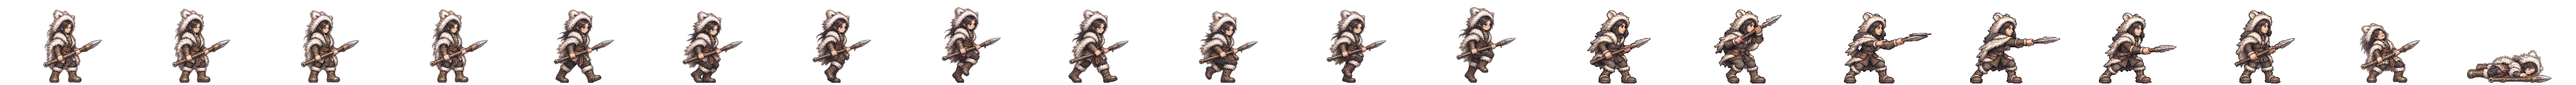
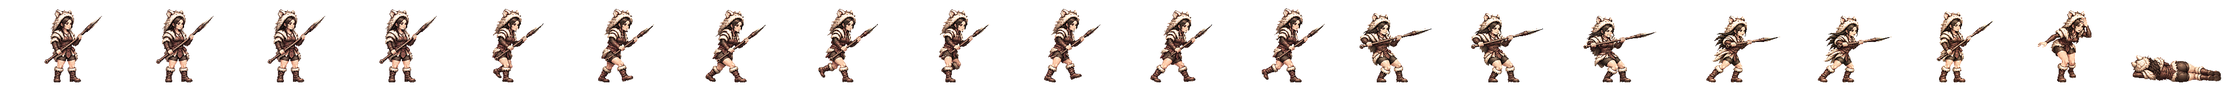
부여 사냥꾼 새 전투 띠를 게임에 넣음(서기·걷기·창 찌르기 여덟 칸·쓰러짐·털 두건 고쳐 쓰기)
strip-build: 서기를 걷기 윗몸에 맞추는 탐색을 ±20 → ±40px. 사냥꾼은 서기(창 때문에 뿌리 −11)와 걷기(+11)가 33px 떨어져 탐색 끝에 막혀 13px 가 남았다(검사 불합격의 원인).
띠 검사 합격(경고: 서기 발 +21px · 공격 끝 칸 윗몸 16px 뒤) · 시험 2162 통과.

Claude-Session: https://claude.ai/code/session_01TRiuN7s6aDfSnaHxrkctmU

Changed region(s): [[0.4688, 0.0938, 1.0, 1.0], [0.0, 0.0938, 0.4375, 0.9688]]

diff --git a/src/realm/data/spritePx.ts b/src/realm/data/spritePx.ts
@@ -1,3 +1,3 @@
 /** public/realm/anim-px/manifest.json 의 사본 — tools/sprite-normalize.mjs 가 만든다 (손으로 고치지 말 것). 칸 [가로, 세로] · feet = 발 줄(칸 위에서 y) · bodyPx = 서 있는 몸 키 */
 import { expandManifest } from './sprite-manifest.ts'
-export const SPRITE_PX: Readonly<Record<string, { readonly cell: readonly [number, number]; readonly feet: number; readonly bodyPx: number; readonly kind: 'general' | 'soldier' | 'folk' | 'crowd'; readonly cells: number }>> = expandManifest<{ readonly cell: readonly [number, number]; readonly feet: number; readonly bodyPx: number; readonly kind: 'general' | 'soldier' | 'folk' | 'crowd'; readonly cells: number }>([{"cell":[166,128],"feet":126,"bodyPx":124,"kind":"soldier","cells":20},{"cell":[116,128],"feet":126,"bodyPx":117,"kind":"soldier","cells":20},{"cell":[127,128],"feet":126,"bodyPx":116,"kind":"soldier","cells":20},{"cell":[269,128],"feet":126,"bodyPx":126,"kind":"soldier","cells":20},{"cell":[503,128],"feet":126,"bodyPx":127,"kind":"soldier","cells":20},{"cell":[614,128],"feet":126,"bodyPx":126,"kind":"soldier","cells":20},{"cell":[200,160],"feet":156,"bodyPx":138,"kind":"general","cells":20},{"cell":[208,160],"feet":155,"bodyPx":138,"kind":"general","cells":20},{"cell":[232,160],"feet":156,"bodyPx":138,"kind":"general","cells":20},{"cell":[208,160],"feet":154,"bodyPx":138,"kind":"general","cells":20},{"cell":[304,160],"feet":155,"bodyPx":135,"kind":"general","cells":20},{"cell":[224,160],"feet":156,"bodyPx":139,"kind":"general","cells":20},{"cell":[184,160],"feet":156,"bodyPx":138,"kind":"general","cells":20},{"cell":[208,160],"feet":154,"bodyPx":136,"kind":"general","cells":20},{"cell":[240,160],"feet":156,"bodyPx":138,"kind":"general","cells":20},{"cell":[208,160],"feet":156,"bodyPx":138,"kind":"general","cells":20},{"cell":[168,160],"feet":156,"bodyPx":138,"kind":"general","cells":20},{"cell":[192,160],"feet":156,"bodyPx":138,"kind":"general","cells":20},{"cell":[168,160],"feet":156,"bodyPx":124,"kind":"general","cells":20},{"cell":[216,160],"feet":156,"bodyPx":130,"kind":"general","cells":20},{"cell":[200,160],"feet":156,"bodyPx":116,"kind":"general","cells":20},{"cell":[200,160],"feet":156,"bodyPx":135,"kind":"general","cells":20},{"cell":[280,160],"feet":156,"bodyPx":138,"kind":"general","cells":20},{"cell":[232,160],"feet":155,"bodyPx":138,"kind":"general","cells":20},{"cell":[232,160],"feet":156,"bodyPx":134,"kind":"general","cells":20},{"cell":[144,160],"feet":156,"bodyPx":70,"kind":"general","cells":20},{"cell":[208,160],"feet":156,"bodyPx":70,"kind":"general","cells":20},{"cell":[192,160],"feet":156,"bodyPx":70,"kind":"general","cells":20},{"cell":[240,160],"feet":155,"bodyPx":138,"kind":"general","cells":20},{"cell":[160,160],"feet":156,"bodyPx":135,"kind":"general","cells":20},{"cell":[192,160],"feet":156,"bodyPx":128,"kind":"general","cells":20},{"cell":[224,160],"feet":155,"bodyPx":138,"kind":"general","cells":20},{"cell":[232,160],"feet":156,"bodyPx":139,"kind":"general","cells":20},{"cell":[264,160],"feet":155,"bodyPx":138,"kind":"general","cells":20},{"cell":[216,160],"feet":156,"bodyPx":138,"kind":"general","cells":20},{"cell":[208,160],"feet":156,"bodyPx":134,"kind":"general","cells":20},{"cell":[176,160],"feet":156,"bodyPx":130,"kind":"general","cells":20},{"cell":[248,160],"feet":156,"bodyPx":138,"kind":"general","cells":20},{"cell":[248,160],"feet":155,"bodyPx":138,"kind":"general","cells":20},{"cell":[192,160],"feet":155,"bodyPx":138,"kind":"general","cells":20},{"cell":[192,160],"feet":156,"bodyPx":124,"kind":"general","cells":20},{"cell":[208,160],"feet":154,"bodyPx":131,"kind":"general","cells":20},{"cell":[256,160],"feet":156,"bodyPx":138,"kind":"general","cells":20},{"cell":[232,160],"feet":156,"bodyPx":73,"kind":"general","cells":20},{"cell":[256,160],"feet":155,"bodyPx":138,"kind":"general","cells":20},{"cell":[224,160],"feet":156,"bodyPx":138,"kind":"general","cells":20},{"cell":[264,160],"feet":156,"bodyPx":138,"kind":"general","cells":20},{"cell":[224,160],"feet":156,"bodyPx":128,"kind":"general","cells":20},{"cell":[176,160],"feet":156,"bodyPx":129,"kind":"general","cells":20},{"cell":[208,160],"feet":156,"bodyPx":132,"kind":"general","cells":20},{"cell":[216,160],"feet":155,"bodyPx":138,"kind":"general","cells":20},{"cell":[184,160],"feet":156,"bodyPx":122,"kind":"general","cells":20},{"cell":[176,160],"feet":156,"bodyPx":138,"kind":"general","cells":20},{"cell":[280,160],"feet":155,"bodyPx":133,"kind":"general","cells":20},{"cell":[176,160],"feet":156,"bodyPx":70,"kind":"general","cells":20},{"cell":[186,128],"feet":126,"bodyPx":127,"kind":"soldier","cells":20},{"cell":[298,128],"feet":126,"bodyPx":126,"kind":"soldier","cells":20},{"cell":[82,128],"feet":126,"bodyPx":114,"kind":"folk","cells":8},{"cell":[134,128],"feet":126,"bodyPx":119,"kind":"soldier","cells":20},{"cell":[380,128],"feet":126,"bodyPx":124,"kind":"soldier","cells":20},{"cell":[114,128],"feet":126,"bodyPx":115,"kind":"soldier","cells":20},{"cell":[122,128],"feet":126,"bodyPx":114,"kind":"soldier","cells":20},{"cell":[254,128],"feet":126,"bodyPx":128,"kind":"soldier","cells":20},{"cell":[438,128],"feet":126,"bodyPx":126,"kind":"soldier","cells":20},{"cell":[88,128],"feet":126,"bodyPx":113,"kind":"folk","cells":8},{"cell":[100,128],"feet":126,"bodyPx":115,"kind":"folk","cells":8},{"cell":[108,128],"feet":126,"bodyPx":115,"kind":"folk","cells":8},{"cell":[63,128],"feet":126,"bodyPx":113,"kind":"folk","cells":8},{"cell":[69,96],"feet":96,"bodyPx":96,"kind":"crowd","cells":1},{"cell":[54,96],"feet":96,"bodyPx":96,"kind":"crowd","cells":1},{"cell":[47,96],"feet":96,"bodyPx":96,"kind":"crowd","cells":1},{"cell":[49,96],"feet":96,"bodyPx":96,"kind":"crowd","cells":1},{"cell":[57,96],"feet":96,"bodyPx":96,"kind":"crowd","cells":1},{"cell":[55,96],"feet":96,"bodyPx":96,"kind":"crowd","cells":1},{"cell":[45,96],"feet":96,"bodyPx":96,"kind":"crowd","cells":1},{"cell":[53,96],"feet":96,"bodyPx":96,"kind":"crowd","cells":1},{"cell":[64,96],"feet":96,"bodyPx":96,"kind":"crowd","cells":1},{"cell":[208,160],"feet":154,"bodyPx":139,"kind":"general","cells":20},{"cell":[184,160],"feet":156,"bodyPx":124,"kind":"general","cells":20},{"cell":[184,160],"feet":156,"bodyPx":134,"kind":"general","cells":20},{"cell":[224,160],"feet":156,"bodyPx":133,"kind":"general","cells":20},{"cell":[192,160],"feet":156,"bodyPx":135,"kind":"general","cells":20},{"cell":[184,160],"feet":156,"bodyPx":137,"kind":"general","cells":20},{"cell":[216,160],"feet":156,"bodyPx":134,"kind":"general","cells":20},{"cell":[216,160],"feet":156,"bodyPx":132,"kind":"general","cells":20},{"cell":[288,160],"feet":156,"bodyPx":138,"kind":"general","cells":20},{"cell":[192,160],"feet":156,"bodyPx":118,"kind":"general","cells":20},{"cell":[192,160],"feet":156,"bodyPx":134,"kind":"general","cells":20},{"cell":[192,160],"feet":157,"bodyPx":139,"kind":"general","cells":20},{"cell":[184,160],"feet":156,"bodyPx":128,"kind":"general","cells":20},{"cell":[240,160],"feet":156,"bodyPx":128,"kind":"general","cells":20},{"cell":[184,160],"feet":156,"bodyPx":132,"kind":"general","cells":20},{"cell":[208,160],"feet":156,"bodyPx":123,"kind":"general","cells":20},{"cell":[176,160],"feet":156,"bodyPx":116,"kind":"general","cells":20},{"cell":[272,160],"feet":156,"bodyPx":138,"kind":"general","cells":20},{"cell":[176,160],"feet":156,"bodyPx":122,"kind":"general","cells":20},{"cell":[232,160],"feet":156,"bodyPx":127,"kind":"general","cells":20},{"cell":[176,160],"feet":156,"bodyPx":137,"kind":"general","cells":20},{"cell":[184,160],"feet":156,"bodyPx":133,"kind":"general","cells":20}],[["axe",0],["bandit-chief",1],["bandit-club",2],["boat",3],["bow",4],["crossbow",5],["gen-adogan",6],["gen-alpyeong",7],["gen-ara",8],["gen-areum",9],["gen-aryeong",10],["gen-bakdal",6],["gen-baram",11],["gen-bdanbi",12],["gen-beom",13],["gen-beombal",12],["gen-beomi",14],["gen-bira",8],["gen-biryu",15],["gen-budeul",16],["gen-byeol",17],["gen-daemusin",18],["gen-daeso",19],["gen-dallae2",12],["gen-dalli",12],["gen-damul",20],["gen-danbi",15],["gen-dangung",17],["gen-darae",21],["gen-dokmudeom",7],["gen-duman",22],["gen-eomni",23],["gen-eureum",24],["gen-g-bow",25],["gen-g-spear",26],["gen-g-sword",27],["gen-gaennae",6],["gen-gamsil",28],["gen-gaon",29],["gen-geota",15],["gen-geumbawi",12],["gen-geumha",30],["gen-goeun",15],["gen-gom",31],["gen-gomok",15],["gen-gureum",28],["gen-guryema",17],["gen-gwaeyu",8],["gen-haebi",9],["gen-haedal",6],["gen-haesol",32],["gen-halla",7],["gen-heo",33],["gen-hneoul",12],["gen-hogong",34],["gen-hojin",15],["gen-horselord",35],["gen-hwalmi",36],["gen-hyeokgeose",17],["gen-hyeopbo",6],["gen-irang",15],["gen-jibaekho",37],["gen-jinha",38],["gen-jita",39],["gen-jumong",40],["gen-keundol",7],["gen-maehwa",41],["gen-maenun",17],["gen-malgalgi",42],["gen-mari",14],["gen-maro",37],["gen-maryeo",15],["gen-mdallae",32],["gen-mir",6],["gen-mount",43],["gen-mulbeom",44],["gen-mulsae",34],["gen-musoe",34],["gen-noeul",45],["gen-nuri",46],["gen-ocheongan",45],["gen-odi",38],["gen-odogan",6],["gen-ogan",17],["gen-oi",47],["gen-olddaeso",24],["gen-onjo",48],["gen-pidogan",15],["gen-sagong",31],["gen-sdallae",6],["gen-sincheongan",34],["gen-singwigan",34],["gen-sinneoul",23],["gen-sobeol",23],["gen-soebi",6],["gen-soebo",49],["gen-soenun",37],["gen-sogeumbi",50],["gen-songbi",45],["gen-songyang",51],["gen-sori",52],["gen-soseono",53],["gen-suro",17],["gen-tahae",6],["gen-tneoul",45],["gen-w-bow",25],["gen-w-spear",54],["gen-waechief",15],["gen-wan",34],["gen-yeodogan",15],["gen-yucheongan",15],["gen-yusugan",37],["horse",55],["marine",56],["migrant",57],["militia",58],["pike",59],["pirate-captain",60],["pirate-sword",61],["shield",62],["spear",63],["villager-builder",64],["villager-farmer",65],["villager-porter",66],["villager-woman",67],["crowd-b1",68],["crowd-b2",69],["crowd-b3",70],["crowd-b4",71],["crowd-b5",72],["crowd-b6",73],["crowd-f1",68],["crowd-f2",73],["crowd-f3",74],["crowd-f4",75],["crowd-f5",68],["crowd-f6",76],["gen-dalbit",15],["gen-base-g-07-drunk-warrior",17],["gen-base-g-40-anya-adan",15],["gen-base-w-13-young-archer",9],["gen-base-g-03-sea-trader",14],["gen-base-w-10-pirate-captain",77],["gen-base-w-64-miri-dallae",14],["gen-base-g-41-goja-bau",14],["gen-base-g-42-dokro-garam",46],["gen-base-g-09-farmer-conscript",34],["gen-base-w-02-goguryeo-lady",34],["gen-base-w-17-mahan-pearl-diver",9],["gen-base-g-17-saro-isageum",49],["gen-base-g-18-daegaya-king",78],["gen-base-g-35-dabeol-dalgu",15],["gen-base-g-19-sabeol-veteran",34],["gen-base-w-23-usisan-whale-queen",34],["gen-base-g-36-gammun-gamdol",45],["gen-base-g-20-samul-sea-lord",42],["gen-base-g-37-eumjeup-jeup",12],["gen-base-g-38-chopal-palmae",17],["gen-base-w-75-daegaya-soemoe",17],["gen-base-g-45-dabeol-deulgae",12],["gen-base-g-04-jinhan-giant",15],["gen-base-g-08-veteran",15],["gen-base-w-18-jinhan-salt-widow",15],["gen-base-w-12-court-dancer",79],["gen-base-w-83-gyeonji-beodeul",80],["gen-base-w-05-baekje-queen",81],["gen-base-w-21-baekje-court-dancer",12],["gen-base-g-01-master-smith",82],["gen-base-g-93-jomun-solgae",36],["gen-base-g-57-bihwa-neup",14],["gen-base-w-72-eumjeup-beol",15],["gen-base-w-102-garak-dana",34],["gen-base-g-68-baekje-onnuri",15],["gen-base-w-27-mokji-jinha",6],["gen-base-g-22-ungcheon-gomnae",6],["gen-base-g-23-sangdang-soedal",15],["gen-base-g-24-wansan-onsan",6],["gen-base-g-25-balla-keunmoe",34],["gen-base-g-61-heomcheuk-bawi",34],["gen-base-g-88-wander-soeul",45],["gen-base-w-14-feast-spy",6],["gen-base-g-12-silla-youth",83],["gen-base-w-08-mahan-warrior",14],["gen-base-g-62-beonye-hanul",14],["gen-base-g-63-heomcheuk-beogeum",15],["gen-base-g-84-wander-seoneul",15],["gen-base-w-50-siljik-mulga",34],["gen-base-g-46-uga-nureongso",34],["gen-base-w-80-usan-gangchi",14],["gen-base-g-47-guga-sanyanggae",34],["gen-base-w-76-gampyeong-baetsagong",37],["gen-base-g-05-mahan-chieftain",84],["gen-base-g-58-usan-uhae",15],["gen-base-g-27-maek-maekdol",15],["gen-base-w-53-hwanna-gabi",16],["gen-base-w-29-golpo-janmul",37],["gen-base-g-53-baekje-haeru",6],["gen-base-w-71-yeonna-neoul",14],["gen-base-w-79-yangmaek-solmae",34],["gen-base-w-34-chopal-deulme",46],["gen-base-g-44-maga-malgup",85],["gen-base-w-31-dabeol-dalbit",77],["gen-base-g-51-biryuna-mulgyeol",45],["gen-base-g-48-gwanna-musoe",15],["gen-base-g-32-uga-sodu",8],["gen-base-g-49-goguryeo-sona",86],["gen-base-g-30-gwanna-soemoe",45],["gen-base-g-52-tamna-oreum",12],["gen-base-g-29-yeonna-myeongsol",40],["gen-base-w-56-dongokjeo-sogeum",87],["gen-base-g-54-mokji-mahan",8],["gen-base-g-33-jeoga-metdol",17],["gen-base-w-36-baekje-maena",17],["gen-base-w-38-sangdang-bulmae",6],["gen-base-w-39-gosaburi-galmae",88],["gen-base-w-40-mujin-munui",49],["gen-base-w-41-hwanna-beodeul",89],["gen-base-w-43-uga-nuri",42],["gen-base-w-45-tamna-oreumbi",12],["gen-base-g-60-golbeol-golgae",12],["gen-base-g-61-apdok-ap",34],["gen-base-g-62-gammun-gamnamu",6],["gen-base-g-63-chopal-yeoul",37],["gen-base-g-64-michuhol-sogeumkkun",14],["gen-base-g-65-sangdang-soemangchi",45],["gen-base-g-66-geonma-malbalgup",90],["gen-base-g-67-gosaburi-buri",91],["gen-base-g-68-mujin-bitgoeul",12],["gen-base-g-69-goryong-yong",45],["gen-base-g-70-siljik-pado",14],["gen-base-w-81-byeokjin-byeolbit",8],["gen-base-w-46-geonma-maru",37],["gen-base-w-48-mujin-mudeung",14],["gen-base-g-26-gampyeong-gaetbeol",8],["gen-base-g-60-eupcha-hangyeol",92],["gen-base-g-15-shaman-man",34],["gen-base-g-85-wander-ure",37],["gen-base-g-43-hwanna-amnok",15],["gen-base-g-50-bullae-gwaha",81],["gen-base-g-55-saro-bakdal",15],["gen-base-g-56-haseulla-gwahama",6],["gen-base-w-06-buyeo-huntress",14],["gen-base-w-22-dongye-tiger-huntress",14],["gen-base-w-25-bihwa-priestess",34],["gen-base-w-24-apdok-queen",12],["gen-base-w-61-iseo-sinae",15],["gen-base-w-26-iseo-tomboy-general",46],["gen-base-g-59-yangmaek-maekson",93],["gen-aw1-haebi",45],["gen-aw1-soseono",94],["gen-aw1-gamsil",12],["gen-aw1-mir",52],["gen-aw1-dangung",6],["gen-aw1-ara",45],["gen-aw1-jumong",95],["gen-aw1-onjo",96],["gen-aw1-base-w-83-gyeonji-beodeul",17],["gen-aw1-heo",46],["gen-aw1-base-g-38-chopal-palmae",6],["gen-aw1-base-w-25-bihwa-priestess",79],["gen-aw1-sori",16],["gen-aw1-gomok",6],["gen-aw1-irang",17],["gen-aw1-budeul",16],["gen-aw1-gom",14],["gen-aw1-sdallae",6],["gen-aw1-base-w-13-young-archer",6],["gen-aw1-base-w-36-baekje-maena",97],["gen-aw1-base-g-09-farmer-conscript",46],["gen-aw1-base-w-02-goguryeo-lady",98],["gen-aw1-haedal",12],["gen-aw1-hogong",6],["gen-aw1-maehwa",52],["gen-aw1-base-w-06-buyeo-huntress",8],["gen-aw1-base-w-08-mahan-warrior",45],["gen-aw1-base-w-29-golpo-janmul",45],["gen-aw1-base-w-31-dabeol-dalbit",17],["gen-aw1-base-w-38-sangdang-bulmae",16],["gen-aw1-bira",34],["gen-aw1-base-w-53-hwanna-gabi",16],["gen-aw1-base-w-56-dongokjeo-sogeum",52],["gen-aw1-base-w-72-eumjeup-beol",17],["gen-aw1-bdanbi",16],["gen-aw1-beom",12],["gen-aw1-beombal",12],["gen-aw1-byeol",17],["gen-aw1-dalli",52],["gen-aw1-malgalgi",37],["gen-aw1-sincheongan",34]])
+export const SPRITE_PX: Readonly<Record<string, { readonly cell: readonly [number, number]; readonly feet: number; readonly bodyPx: number; readonly kind: 'general' | 'soldier' | 'folk' | 'crowd'; readonly cells: number }>> = expandManifest<{ readonly cell: readonly [number, number]; readonly feet: number; readonly bodyPx: number; readonly kind: 'general' | 'soldier' | 'folk' | 'crowd'; readonly cells: number }>([{"cell":[166,128],"feet":126,"bodyPx":124,"kind":"soldier","cells":20},{"cell":[116,128],"feet":126,"bodyPx":117,"kind":"soldier","cells":20},{"cell":[127,128],"feet":126,"bodyPx":116,"kind":"soldier","cells":20},{"cell":[269,128],"feet":126,"bodyPx":126,"kind":"soldier","cells":20},{"cell":[503,128],"feet":126,"bodyPx":127,"kind":"soldier","cells":20},{"cell":[614,128],"feet":126,"bodyPx":126,"kind":"soldier","cells":20},{"cell":[200,160],"feet":156,"bodyPx":138,"kind":"general","cells":20},{"cell":[208,160],"feet":155,"bodyPx":138,"kind":"general","cells":20},{"cell":[232,160],"feet":156,"bodyPx":138,"kind":"general","cells":20},{"cell":[208,160],"feet":154,"bodyPx":138,"kind":"general","cells":20},{"cell":[304,160],"feet":155,"bodyPx":135,"kind":"general","cells":20},{"cell":[224,160],"feet":156,"bodyPx":139,"kind":"general","cells":20},{"cell":[184,160],"feet":156,"bodyPx":138,"kind":"general","cells":20},{"cell":[208,160],"feet":154,"bodyPx":136,"kind":"general","cells":20},{"cell":[240,160],"feet":156,"bodyPx":138,"kind":"general","cells":20},{"cell":[208,160],"feet":156,"bodyPx":138,"kind":"general","cells":20},{"cell":[168,160],"feet":156,"bodyPx":138,"kind":"general","cells":20},{"cell":[192,160],"feet":156,"bodyPx":138,"kind":"general","cells":20},{"cell":[168,160],"feet":156,"bodyPx":124,"kind":"general","cells":20},{"cell":[216,160],"feet":156,"bodyPx":130,"kind":"general","cells":20},{"cell":[200,160],"feet":156,"bodyPx":116,"kind":"general","cells":20},{"cell":[200,160],"feet":156,"bodyPx":135,"kind":"general","cells":20},{"cell":[280,160],"feet":156,"bodyPx":138,"kind":"general","cells":20},{"cell":[232,160],"feet":155,"bodyPx":138,"kind":"general","cells":20},{"cell":[232,160],"feet":156,"bodyPx":134,"kind":"general","cells":20},{"cell":[144,160],"feet":156,"bodyPx":70,"kind":"general","cells":20},{"cell":[208,160],"feet":156,"bodyPx":70,"kind":"general","cells":20},{"cell":[192,160],"feet":156,"bodyPx":70,"kind":"general","cells":20},{"cell":[240,160],"feet":155,"bodyPx":138,"kind":"general","cells":20},{"cell":[160,160],"feet":156,"bodyPx":135,"kind":"general","cells":20},{"cell":[192,160],"feet":156,"bodyPx":128,"kind":"general","cells":20},{"cell":[224,160],"feet":155,"bodyPx":138,"kind":"general","cells":20},{"cell":[232,160],"feet":156,"bodyPx":139,"kind":"general","cells":20},{"cell":[264,160],"feet":155,"bodyPx":138,"kind":"general","cells":20},{"cell":[216,160],"feet":156,"bodyPx":138,"kind":"general","cells":20},{"cell":[208,160],"feet":156,"bodyPx":134,"kind":"general","cells":20},{"cell":[176,160],"feet":156,"bodyPx":130,"kind":"general","cells":20},{"cell":[248,160],"feet":156,"bodyPx":138,"kind":"general","cells":20},{"cell":[248,160],"feet":155,"bodyPx":138,"kind":"general","cells":20},{"cell":[192,160],"feet":155,"bodyPx":138,"kind":"general","cells":20},{"cell":[192,160],"feet":156,"bodyPx":124,"kind":"general","cells":20},{"cell":[208,160],"feet":154,"bodyPx":131,"kind":"general","cells":20},{"cell":[256,160],"feet":156,"bodyPx":138,"kind":"general","cells":20},{"cell":[232,160],"feet":156,"bodyPx":73,"kind":"general","cells":20},{"cell":[256,160],"feet":155,"bodyPx":138,"kind":"general","cells":20},{"cell":[224,160],"feet":156,"bodyPx":138,"kind":"general","cells":20},{"cell":[264,160],"feet":156,"bodyPx":138,"kind":"general","cells":20},{"cell":[224,160],"feet":156,"bodyPx":128,"kind":"general","cells":20},{"cell":[176,160],"feet":156,"bodyPx":129,"kind":"general","cells":20},{"cell":[208,160],"feet":156,"bodyPx":132,"kind":"general","cells":20},{"cell":[216,160],"feet":155,"bodyPx":138,"kind":"general","cells":20},{"cell":[184,160],"feet":156,"bodyPx":122,"kind":"general","cells":20},{"cell":[176,160],"feet":156,"bodyPx":138,"kind":"general","cells":20},{"cell":[280,160],"feet":155,"bodyPx":133,"kind":"general","cells":20},{"cell":[176,160],"feet":156,"bodyPx":70,"kind":"general","cells":20},{"cell":[186,128],"feet":126,"bodyPx":127,"kind":"soldier","cells":20},{"cell":[298,128],"feet":126,"bodyPx":126,"kind":"soldier","cells":20},{"cell":[82,128],"feet":126,"bodyPx":114,"kind":"folk","cells":8},{"cell":[134,128],"feet":126,"bodyPx":119,"kind":"soldier","cells":20},{"cell":[380,128],"feet":126,"bodyPx":124,"kind":"soldier","cells":20},{"cell":[114,128],"feet":126,"bodyPx":115,"kind":"soldier","cells":20},{"cell":[122,128],"feet":126,"bodyPx":114,"kind":"soldier","cells":20},{"cell":[254,128],"feet":126,"bodyPx":128,"kind":"soldier","cells":20},{"cell":[438,128],"feet":126,"bodyPx":126,"kind":"soldier","cells":20},{"cell":[88,128],"feet":126,"bodyPx":113,"kind":"folk","cells":8},{"cell":[100,128],"feet":126,"bodyPx":115,"kind":"folk","cells":8},{"cell":[108,128],"feet":126,"bodyPx":115,"kind":"folk","cells":8},{"cell":[63,128],"feet":126,"bodyPx":113,"kind":"folk","cells":8},{"cell":[69,96],"feet":96,"bodyPx":96,"kind":"crowd","cells":1},{"cell":[54,96],"feet":96,"bodyPx":96,"kind":"crowd","cells":1},{"cell":[47,96],"feet":96,"bodyPx":96,"kind":"crowd","cells":1},{"cell":[49,96],"feet":96,"bodyPx":96,"kind":"crowd","cells":1},{"cell":[57,96],"feet":96,"bodyPx":96,"kind":"crowd","cells":1},{"cell":[55,96],"feet":96,"bodyPx":96,"kind":"crowd","cells":1},{"cell":[45,96],"feet":96,"bodyPx":96,"kind":"crowd","cells":1},{"cell":[53,96],"feet":96,"bodyPx":96,"kind":"crowd","cells":1},{"cell":[64,96],"feet":96,"bodyPx":96,"kind":"crowd","cells":1},{"cell":[208,160],"feet":154,"bodyPx":139,"kind":"general","cells":20},{"cell":[184,160],"feet":156,"bodyPx":124,"kind":"general","cells":20},{"cell":[184,160],"feet":156,"bodyPx":134,"kind":"general","cells":20},{"cell":[224,160],"feet":156,"bodyPx":133,"kind":"general","cells":20},{"cell":[192,160],"feet":156,"bodyPx":135,"kind":"general","cells":20},{"cell":[184,160],"feet":156,"bodyPx":137,"kind":"general","cells":20},{"cell":[216,160],"feet":156,"bodyPx":134,"kind":"general","cells":20},{"cell":[216,160],"feet":156,"bodyPx":132,"kind":"general","cells":20},{"cell":[288,160],"feet":156,"bodyPx":138,"kind":"general","cells":20},{"cell":[192,160],"feet":156,"bodyPx":118,"kind":"general","cells":20},{"cell":[192,160],"feet":156,"bodyPx":134,"kind":"general","cells":20},{"cell":[192,160],"feet":157,"bodyPx":139,"kind":"general","cells":20},{"cell":[184,160],"feet":156,"bodyPx":128,"kind":"general","cells":20},{"cell":[240,160],"feet":156,"bodyPx":128,"kind":"general","cells":20},{"cell":[184,160],"feet":156,"bodyPx":132,"kind":"general","cells":20},{"cell":[208,160],"feet":156,"bodyPx":123,"kind":"general","cells":20},{"cell":[208,160],"feet":154,"bodyPx":137,"kind":"general","cells":20},{"cell":[176,160],"feet":156,"bodyPx":116,"kind":"general","cells":20},{"cell":[272,160],"feet":156,"bodyPx":138,"kind":"general","cells":20},{"cell":[176,160],"feet":156,"bodyPx":122,"kind":"general","cells":20},{"cell":[232,160],"feet":156,"bodyPx":127,"kind":"general","cells":20},{"cell":[176,160],"feet":156,"bodyPx":137,"kind":"general","cells":20},{"cell":[184,160],"feet":156,"bodyPx":133,"kind":"general","cells":20}],[["axe",0],["bandit-chief",1],["bandit-club",2],["boat",3],["bow",4],["crossbow",5],["gen-adogan",6],["gen-alpyeong",7],["gen-ara",8],["gen-areum",9],["gen-aryeong",10],["gen-bakdal",6],["gen-baram",11],["gen-bdanbi",12],["gen-beom",13],["gen-beombal",12],["gen-beomi",14],["gen-bira",8],["gen-biryu",15],["gen-budeul",16],["gen-byeol",17],["gen-daemusin",18],["gen-daeso",19],["gen-dallae2",12],["gen-dalli",12],["gen-damul",20],["gen-danbi",15],["gen-dangung",17],["gen-darae",21],["gen-dokmudeom",7],["gen-duman",22],["gen-eomni",23],["gen-eureum",24],["gen-g-bow",25],["gen-g-spear",26],["gen-g-sword",27],["gen-gaennae",6],["gen-gamsil",28],["gen-gaon",29],["gen-geota",15],["gen-geumbawi",12],["gen-geumha",30],["gen-goeun",15],["gen-gom",31],["gen-gomok",15],["gen-gureum",28],["gen-guryema",17],["gen-gwaeyu",8],["gen-haebi",9],["gen-haedal",6],["gen-haesol",32],["gen-halla",7],["gen-heo",33],["gen-hneoul",12],["gen-hogong",34],["gen-hojin",15],["gen-horselord",35],["gen-hwalmi",36],["gen-hyeokgeose",17],["gen-hyeopbo",6],["gen-irang",15],["gen-jibaekho",37],["gen-jinha",38],["gen-jita",39],["gen-jumong",40],["gen-keundol",7],["gen-maehwa",41],["gen-maenun",17],["gen-malgalgi",42],["gen-mari",14],["gen-maro",37],["gen-maryeo",15],["gen-mdallae",32],["gen-mir",6],["gen-mount",43],["gen-mulbeom",44],["gen-mulsae",34],["gen-musoe",34],["gen-noeul",45],["gen-nuri",46],["gen-ocheongan",45],["gen-odi",38],["gen-odogan",6],["gen-ogan",17],["gen-oi",47],["gen-olddaeso",24],["gen-onjo",48],["gen-pidogan",15],["gen-sagong",31],["gen-sdallae",6],["gen-sincheongan",34],["gen-singwigan",34],["gen-sinneoul",23],["gen-sobeol",23],["gen-soebi",6],["gen-soebo",49],["gen-soenun",37],["gen-sogeumbi",50],["gen-songbi",45],["gen-songyang",51],["gen-sori",52],["gen-soseono",53],["gen-suro",17],["gen-tahae",6],["gen-tneoul",45],["gen-w-bow",25],["gen-w-spear",54],["gen-waechief",15],["gen-wan",34],["gen-yeodogan",15],["gen-yucheongan",15],["gen-yusugan",37],["horse",55],["marine",56],["migrant",57],["militia",58],["pike",59],["pirate-captain",60],["pirate-sword",61],["shield",62],["spear",63],["villager-builder",64],["villager-farmer",65],["villager-porter",66],["villager-woman",67],["crowd-b1",68],["crowd-b2",69],["crowd-b3",70],["crowd-b4",71],["crowd-b5",72],["crowd-b6",73],["crowd-f1",68],["crowd-f2",73],["crowd-f3",74],["crowd-f4",75],["crowd-f5",68],["crowd-f6",76],["gen-dalbit",15],["gen-base-g-07-drunk-warrior",17],["gen-base-g-40-anya-adan",15],["gen-base-w-13-young-archer",9],["gen-base-g-03-sea-trader",14],["gen-base-w-10-pirate-captain",77],["gen-base-w-64-miri-dallae",14],["gen-base-g-41-goja-bau",14],["gen-base-g-42-dokro-garam",46],["gen-base-g-09-farmer-conscript",34],["gen-base-w-02-goguryeo-lady",34],["gen-base-w-17-mahan-pearl-diver",9],["gen-base-g-17-saro-isageum",49],["gen-base-g-18-daegaya-king",78],["gen-base-g-35-dabeol-dalgu",15],["gen-base-g-19-sabeol-veteran",34],["gen-base-w-23-usisan-whale-queen",34],["gen-base-g-36-gammun-gamdol",45],["gen-base-g-20-samul-sea-lord",42],["gen-base-g-37-eumjeup-jeup",12],["gen-base-g-38-chopal-palmae",17],["gen-base-w-75-daegaya-soemoe",17],["gen-base-g-45-dabeol-deulgae",12],["gen-base-g-04-jinhan-giant",15],["gen-base-g-08-veteran",15],["gen-base-w-18-jinhan-salt-widow",15],["gen-base-w-12-court-dancer",79],["gen-base-w-83-gyeonji-beodeul",80],["gen-base-w-05-baekje-queen",81],["gen-base-w-21-baekje-court-dancer",12],["gen-base-g-01-master-smith",82],["gen-base-g-93-jomun-solgae",36],["gen-base-g-57-bihwa-neup",14],["gen-base-w-72-eumjeup-beol",15],["gen-base-w-102-garak-dana",34],["gen-base-g-68-baekje-onnuri",15],["gen-base-w-27-mokji-jinha",6],["gen-base-g-22-ungcheon-gomnae",6],["gen-base-g-23-sangdang-soedal",15],["gen-base-g-24-wansan-onsan",6],["gen-base-g-25-balla-keunmoe",34],["gen-base-g-61-heomcheuk-bawi",34],["gen-base-g-88-wander-soeul",45],["gen-base-w-14-feast-spy",6],["gen-base-g-12-silla-youth",83],["gen-base-w-08-mahan-warrior",14],["gen-base-g-62-beonye-hanul",14],["gen-base-g-63-heomcheuk-beogeum",15],["gen-base-g-84-wander-seoneul",15],["gen-base-w-50-siljik-mulga",34],["gen-base-g-46-uga-nureongso",34],["gen-base-w-80-usan-gangchi",14],["gen-base-g-47-guga-sanyanggae",34],["gen-base-w-76-gampyeong-baetsagong",37],["gen-base-g-05-mahan-chieftain",84],["gen-base-g-58-usan-uhae",15],["gen-base-g-27-maek-maekdol",15],["gen-base-w-53-hwanna-gabi",16],["gen-base-w-29-golpo-janmul",37],["gen-base-g-53-baekje-haeru",6],["gen-base-w-71-yeonna-neoul",14],["gen-base-w-79-yangmaek-solmae",34],["gen-base-w-34-chopal-deulme",46],["gen-base-g-44-maga-malgup",85],["gen-base-w-31-dabeol-dalbit",77],["gen-base-g-51-biryuna-mulgyeol",45],["gen-base-g-48-gwanna-musoe",15],["gen-base-g-32-uga-sodu",8],["gen-base-g-49-goguryeo-sona",86],["gen-base-g-30-gwanna-soemoe",45],["gen-base-g-52-tamna-oreum",12],["gen-base-g-29-yeonna-myeongsol",40],["gen-base-w-56-dongokjeo-sogeum",87],["gen-base-g-54-mokji-mahan",8],["gen-base-g-33-jeoga-metdol",17],["gen-base-w-36-baekje-maena",17],["gen-base-w-38-sangdang-bulmae",6],["gen-base-w-39-gosaburi-galmae",88],["gen-base-w-40-mujin-munui",49],["gen-base-w-41-hwanna-beodeul",89],["gen-base-w-43-uga-nuri",42],["gen-base-w-45-tamna-oreumbi",12],["gen-base-g-60-golbeol-golgae",12],["gen-base-g-61-apdok-ap",34],["gen-base-g-62-gammun-gamnamu",6],["gen-base-g-63-chopal-yeoul",37],["gen-base-g-64-michuhol-sogeumkkun",14],["gen-base-g-65-sangdang-soemangchi",45],["gen-base-g-66-geonma-malbalgup",90],["gen-base-g-67-gosaburi-buri",91],["gen-base-g-68-mujin-bitgoeul",12],["gen-base-g-69-goryong-yong",45],["gen-base-g-70-siljik-pado",14],["gen-base-w-81-byeokjin-byeolbit",8],["gen-base-w-46-geonma-maru",37],["gen-base-w-48-mujin-mudeung",14],["gen-base-g-26-gampyeong-gaetbeol",8],["gen-base-g-60-eupcha-hangyeol",92],["gen-base-g-15-shaman-man",34],["gen-base-g-85-wander-ure",37],["gen-base-g-43-hwanna-amnok",15],["gen-base-g-50-bullae-gwaha",81],["gen-base-g-55-saro-bakdal",15],["gen-base-g-56-haseulla-gwahama",6],["gen-base-w-06-buyeo-huntress",93],["gen-base-w-22-dongye-tiger-huntress",14],["gen-base-w-25-bihwa-priestess",34],["gen-base-w-24-apdok-queen",12],["gen-base-w-61-iseo-sinae",15],["gen-base-w-26-iseo-tomboy-general",46],["gen-base-g-59-yangmaek-maekson",94],["gen-aw1-haebi",45],["gen-aw1-soseono",95],["gen-aw1-gamsil",12],["gen-aw1-mir",52],["gen-aw1-dangung",6],["gen-aw1-ara",45],["gen-aw1-jumong",96],["gen-aw1-onjo",97],["gen-aw1-base-w-83-gyeonji-beodeul",17],["gen-aw1-heo",46],["gen-aw1-base-g-38-chopal-palmae",6],["gen-aw1-base-w-25-bihwa-priestess",79],["gen-aw1-sori",16],["gen-aw1-gomok",6],["gen-aw1-irang",17],["gen-aw1-budeul",16],["gen-aw1-gom",14],["gen-aw1-sdallae",6],["gen-aw1-base-w-13-young-archer",6],["gen-aw1-base-w-36-baekje-maena",98],["gen-aw1-base-g-09-farmer-conscript",46],["gen-aw1-base-w-02-goguryeo-lady",99],["gen-aw1-haedal",12],["gen-aw1-hogong",6],["gen-aw1-maehwa",52],["gen-aw1-base-w-06-buyeo-huntress",8],["gen-aw1-base-w-08-mahan-warrior",45],["gen-aw1-base-w-29-golpo-janmul",45],["gen-aw1-base-w-31-dabeol-dalbit",17],["gen-aw1-base-w-38-sangdang-bulmae",16],["gen-aw1-bira",34],["gen-aw1-base-w-53-hwanna-gabi",16],["gen-aw1-base-w-56-dongokjeo-sogeum",52],["gen-aw1-base-w-72-eumjeup-beol",17],["gen-aw1-bdanbi",16],["gen-aw1-beom",12],["gen-aw1-beombal",12],["gen-aw1-byeol",17],["gen-aw1-dalli",52],["gen-aw1-malgalgi",37],["gen-aw1-sincheongan",34]])

diff --git a/src/duel/view.ts b/src/duel/view.ts
@@ -100,7 +100,7 @@ const crowdFront = [1, 2, 3, 4, 5, 6].map((i) => img(`realm/duel/crowd/b${i}.png
 const crowdReady = (set: HTMLImageElement[]): boolean => set.every((im) => im.complete && im.naturalWidth > 0)
 const pxMode = cfg.px !== false && params.get('px') !== '0'
 /** 겨루기 전용 옛 띠(duel/sprites) 대신 열전과 같은 도트 띠(anim-px)를 쓰는 장수 — 두 판에서 같은 모습 · 서기 계획·쓰러지는 칸도 같다 (11-23 범 · 매화 · 달빛 · 11-24 해비 · 아룸) */
-const PX_DUEL: ReadonlySet<string> = new Set(['beom', 'maehwa', 'base-w-31-dabeol-dalbit', 'haebi', 'areum', 'base-w-13-young-archer', 'base-w-10-pirate-captain', 'base-w-17-mahan-pearl-diver'])
+const PX_DUEL: ReadonlySet<string> = new Set(['beom', 'maehwa', 'base-w-31-dabeol-dalbit', 'haebi', 'areum', 'base-w-13-young-archer', 'base-w-10-pirate-captain', 'base-w-17-mahan-pearl-diver', 'base-w-06-buyeo-huntress'])
 /** 띠 그림 — 기본은 anim-px(도트 규격) 먼저, 없으면 옛 띠로 (img 의 onerror 가 갈아 끼운다) */
 const strip = (s: string): HTMLImageElement => pxMode
   ? DUEL_ATLASES[s] !== undefined && !PX_DUEL.has(s) ? img(`realm/duel/sprites/gen-${s}.png`, `realm/anim-px/gen-${s}.png`)

diff --git a/src/tune/params.ts b/src/tune/params.ts
@@ -1418,6 +1418,7 @@ export const HAEBI_IDLE = {
     'base-w-13-young-archer': { cells: 26, base: [0, 1], hold: 2.4, fall: [18, 20, 21, 19], quirk: [22, 23, 24, 25], quirkTimes: [.28, .3, .42, .25] },
     'base-w-10-pirate-captain': { cells: 34, base: [0, 1], hold: 2.4, fall: [18, 20, 21, 19], quirk: [22, 23, 24, 25], quirkTimes: [.3, .32, .4, .28], attack: { cells: [26, 27, 28, 29, 30, 31, 32, 33], times: [.09, .08, .11, .05, .15, .07, .08, .12], hit: 4 }, xGeom: { h: 224, root: 92, foot: 216 } },
     'base-w-17-mahan-pearl-diver': { cells: 34, base: [0, 1], hold: 2.4, fall: [18, 20, 21, 19], quirk: [22, 23, 24, 25], quirkTimes: [.3, .32, .4, .28], attack: { cells: [26, 27, 28, 29, 30, 31, 32, 33], times: [.09, .08, .11, .12, .12, .08, .08, .12], hit: 3 }, xGeom: { h: 224, root: 92, foot: 216 } },
+    'base-w-06-buyeo-huntress': { cells: 34, base: [0, 1], hold: 2.4, fall: [18, 20, 21, 19], quirk: [22, 23, 24, 25], quirkTimes: [.3, .32, .4, .28], attack: { cells: [26, 27, 28, 29, 30, 31, 32, 33], times: [.09, .08, .11, .05, .15, .07, .08, .12], hit: 4 }, xGeom: { h: 224, root: 92, foot: 216 } },
   },
 } as const
 export const HAEBI_ANIM = {

diff --git a/src/raid/hero-hd.ts b/src/raid/hero-hd.ts
@@ -52,7 +52,6 @@ export const HERO_HD: Readonly<Record<string, string>> = {
   'anim-px/gen-aw1-base-w-13-young-archer.png': 'anim-px/gen-aw1-base-w-13-young-archer_hd.png',
   'anim-px/gen-aw1-base-w-08-mahan-warrior.png': 'anim-px/gen-aw1-base-w-08-mahan-warrior_hd.png',
   'anim-px/gen-base-w-08-mahan-warrior.png': 'anim-px/gen-base-w-08-mahan-warrior_hd.png',
-  'anim-px/gen-base-w-06-buyeo-huntress.png': 'anim-px/gen-base-w-06-buyeo-huntress_hd.png',
   'anim-px/gen-base-w-05-baekje-queen.png': 'anim-px/gen-base-w-05-baekje-queen_hd.png',
   'anim-px/gen-base-w-02-goguryeo-lady.png': 'anim-px/gen-base-w-02-goguryeo-lady_hd.png',
   'anim-px/gen-aw1-base-w-06-buyeo-huntress.png': 'anim-px/gen-aw1-base-w-06-buyeo-huntress_hd.png',

diff --git a/tools/sprite-kit/strip-build.py b/tools/sprite-kit/strip-build.py
@@ -76,7 +76,7 @@ def main(name, atk, out):
             u = np.zeros_like(a)
             u[ys.min() + int(h * .04):ys.min() + int(h * .45)] = a[ys.min() + int(h * .04):ys.min() + int(h * .45)]
             return u
-        def reg(a, r, reach=20):
+        def reg(a, r, reach=40):   # 11-24: 20 이면 사냥꾼(서기는 창 때문에 뿌리 −11 · 걷기는 +11)에서 탐색 끝(20)에 막혀 13px 가 남았다
             # 가로·세로를 함께 본다(anim-check 와 같은 셈) — 가로만 보면 서기와 걷기의 키가 1~2px 다를 때 엉뚱한 자리에 맞는다(궁수: 2px 로 맞췄는데 검사는 6.5px 어긋남 · 11-24)
             best, at = None, 0
             for dy in range(-7, 8):
